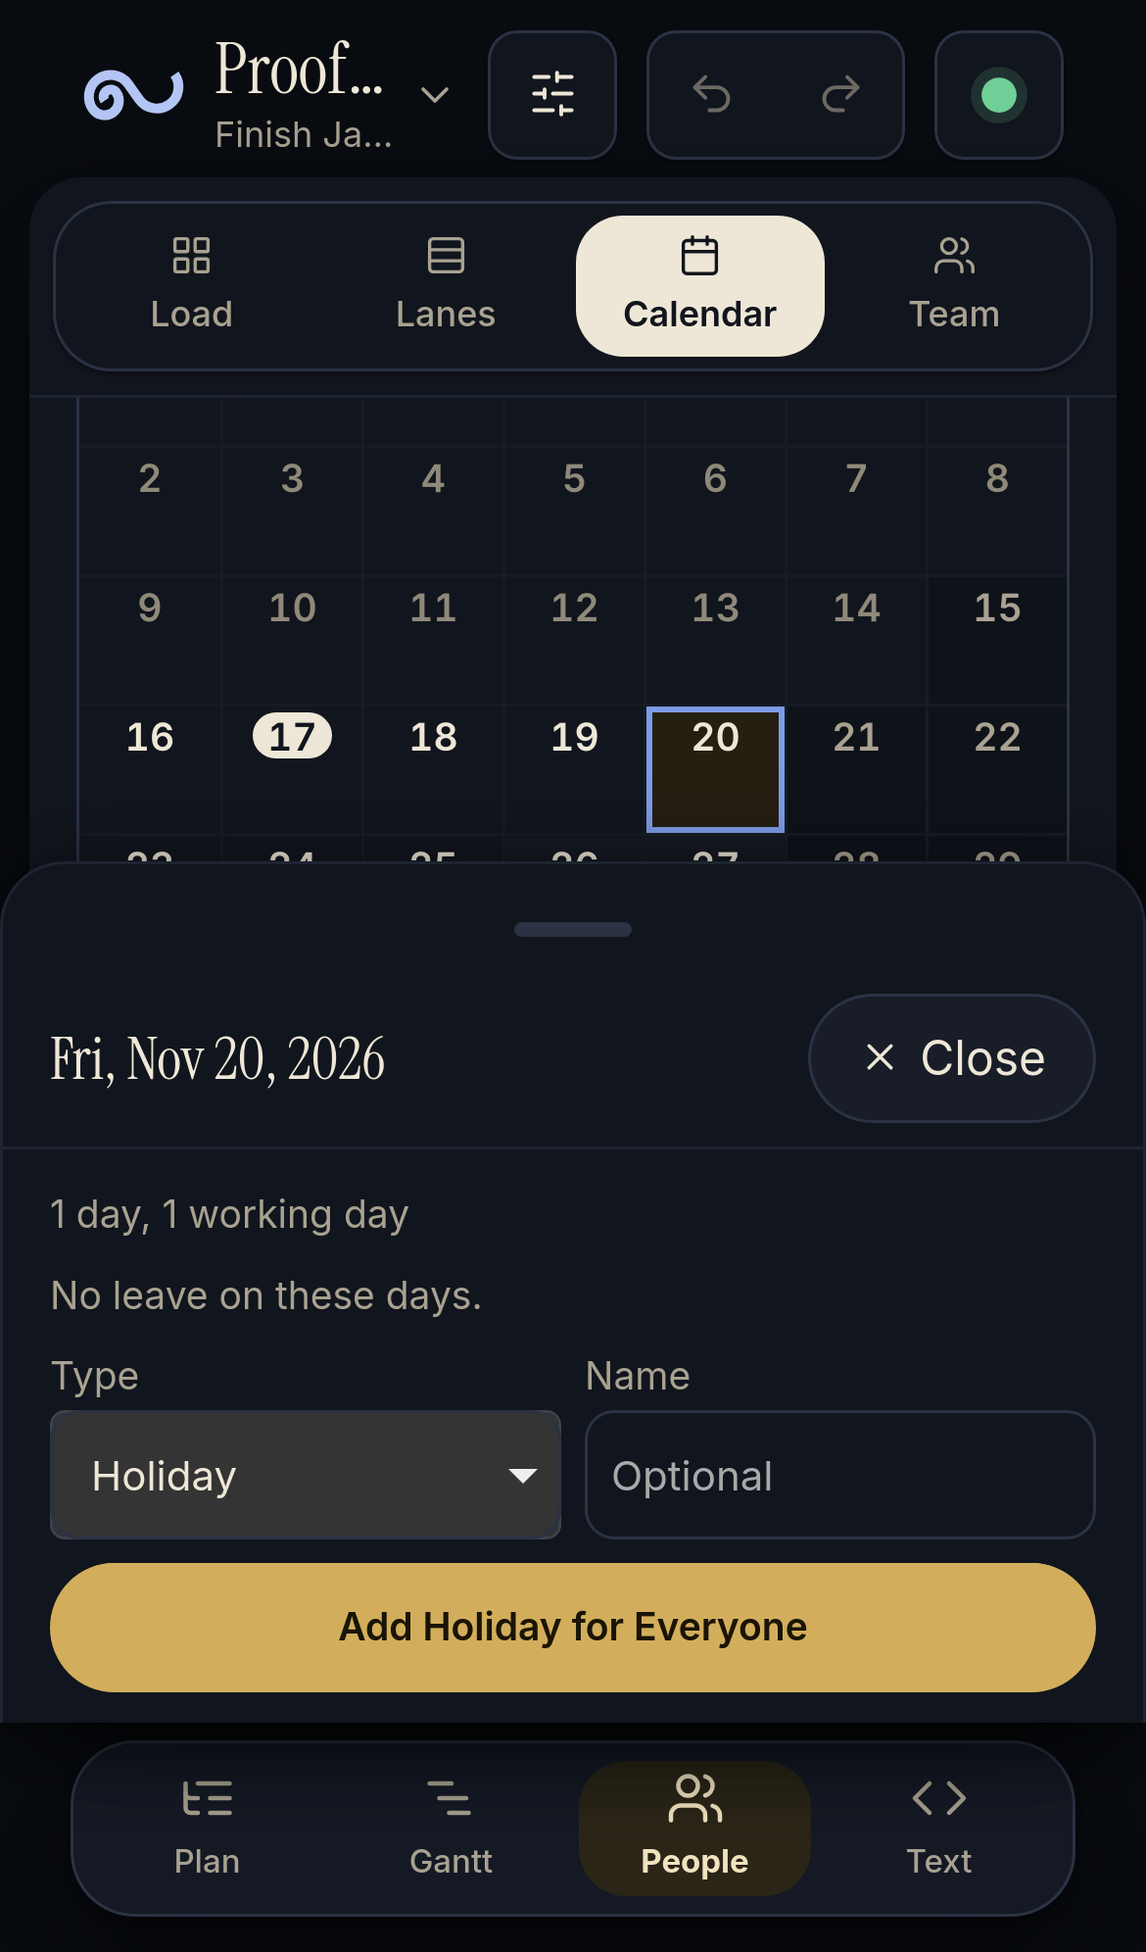
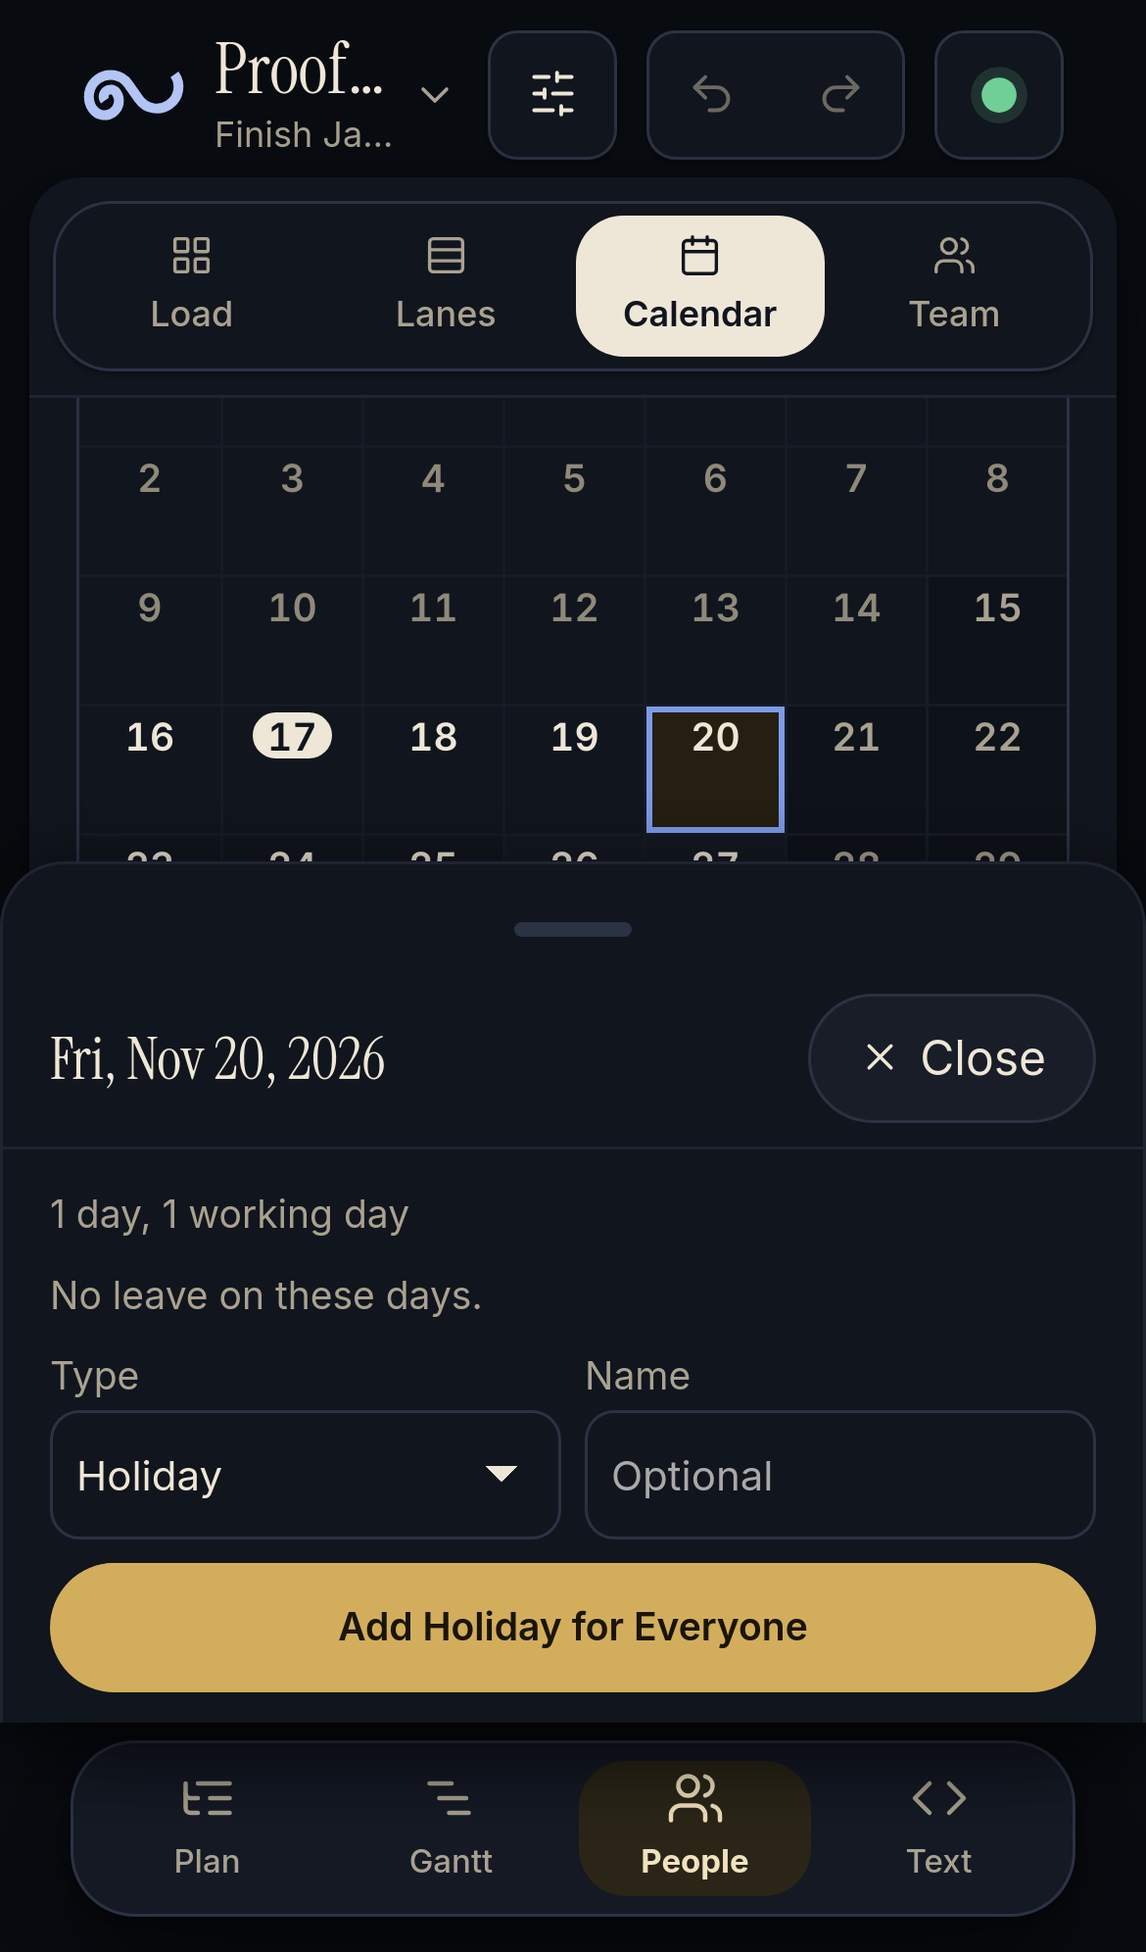
fix(calendar): review of the day-details sheet (desktop keeps its panel, the mode shows, edge scroll)
- A desktop never opens the bottom Sheet: it is for the phone layout and a tablet narrower than
  760 px (the layout kind is passed down from App through PeopleSlot and PeopleView). A desktop
  Calendar in a narrow pane (Split mode) keeps the panel over the month's foot.
- With the Sheet covering the toolbar (close it to change the mode), the mode in force shows as a
  chip in the Sheet's header, so a drag on the month above it never paints or erases with no visible
  mode. Section 22.y of phase-3.md records the decision.
- A drag's edge auto-scroll starts above the Sheet (its cover is taken off the scroller's bottom).
- DayDetails.svelte says why it is over 400 lines.
- Tests: Clear leave with the sheet open, the mode chip, and the narrow desktop pane. The
  calendar-sheet pictures are retaken with the select's arrow.

Claude-Session: https://claude.ai/code/session_018x5vMW7RJi75erXSGU1vHa

Changed region(s): [[0.0308, 0.7159, 0.4923, 0.8092]]

diff --git a/src/components/calendar/Calendar.svelte b/src/components/calendar/Calendar.svelte
@@ -21,10 +21,13 @@
 	  the arrows extends it, also past the month's edge: the next month is shown and it goes on. L opens the type picker (Enter adds that leave), Delete clears the leave
 	  on the selected days, Enter opens the details, Escape closes the picker or the details.
 	- Selection is the app's (`app.selection`, kind `days`), so a person's details can follow it.
-	- The days' details are a column beside the month when the view is 760 px wide or more. Narrower
-	  (a phone, a tablet in portrait) they are the shared bottom Sheet that the task details use:
-	  non-modal, half and full height, over the toolbar rows and the tab bar. The month keeps its
-	  place and scrolls only as far as the selected day needs to stay above the Sheet.
+	- The days' details are a column beside the month when the view is 760 px wide or more. On a
+	  phone and a tablet narrower than that they are the shared bottom Sheet that the task details
+	  use: non-modal, half and full height, over the toolbar rows and the tab bar (close it to change
+	  the mode, the person or the month; the mode in force shows in its header). The month keeps its
+	  place and scrolls only as far as the selected day needs to stay above the Sheet. A desktop never
+	  uses the Sheet: in a pane narrower than 760 px (a docked person's details beside it) the
+	  details are a panel over the month's foot.
 
 	Over 400 lines on purpose: this one component owns the month, the selection, the focus and the
 	dispatch, which only work together (as Workload.svelte does); the rules are in lib/calendar.
@@ -67,11 +70,13 @@
 		app: AppState;
 		/** A phone: the bar is above the tab bar, and there is one month. */
 		phone: boolean;
+		/** The desktop layout: the details stay a column or a panel in the view, never the bottom Sheet. */
+		desktop?: boolean;
 		state: CalendarState;
 		/** Goes to the Gantt (the details' "Show in Gantt"). */
 		showGantt: () => void;
 	}
-	let { app, phone, state: cal, showGantt }: Props = $props();
+	let { app, phone, desktop = false, state: cal, showGantt }: Props = $props();
 
 	const zones = createTimeZoneHost();
 	let root: HTMLDivElement | undefined = $state();
@@ -79,13 +84,19 @@
 	let details: DayDetails | undefined = $state();
 	let rootW = $state(0);
 	let rootH = $state(0);
-	/** A narrow view: the days' details are the shared bottom Sheet (as the task details are), else a column. */
-	const sheetMode = $derived(rootW > 0 && rootW < 760);
+	/**
+	 * A phone, or a tablet narrower than 760 px: the days' details are the shared bottom Sheet (as the
+	 * task details are). A desktop keeps them in the view: a column beside the month, and, in a pane
+	 * narrower than 760 px (a docked person's details beside it), a panel over the month's foot.
+	 */
+	const sheetMode = $derived(phone || (!desktop && rootW > 0 && rootW < 760));
 	let detent = $state<Detent>('half');
 	/** How far the Sheet reaches up from the viewport's bottom, in px (kept until it has left). */
 	let reach = $state(0);
 	/** How much of the month's box the Sheet covers, in px: the room the month keeps to scroll above it. */
 	let cover = $state(0);
+	/** The in-pane panel's height (a desktop's narrow pane), px: the room the month keeps above it. */
+	let panelH = $state(0);
 	/** What the Sheet shows while it slides away, after the selection has gone. */
 	let held = $state.raw<{ details: SelectionDetails; range: string } | null>(null);
 	let detailsOpen = $state(false);
@@ -281,6 +292,7 @@
 	const gestures = new CalendarGestures({
 		mode: () => cal.mode,
 		scroller: () => scroller,
+		covered: (): number => (sheetMode && detailed ? cover : 0),
 		valid: (d) => d >= 0 && d < grid.days.length,
 		label: (d) => {
 			const day = grid.days[d];
@@ -450,6 +462,16 @@
 		);
 	});
 
+	// A panel over the foot of a narrow desktop pane: bring the selected day above it (WCAG 2.4.11).
+	$effect(() => {
+		if (sheetMode || !detailed || panelH <= 0) return;
+		const lo = untrack(() => selected?.[0]);
+		if (lo === undefined) return;
+		void tick().then(() =>
+			root?.querySelector<HTMLElement>(`[data-day="${lo}"]`)?.scrollIntoView({ block: 'nearest' }),
+		);
+	});
+
 	function onscroll(): void {
 		gestures.scrolled();
 	}
@@ -517,6 +539,14 @@
 	/>
 {/snippet}
 
+{#snippet modeChip()}
+	{#if cal.mode !== 'select'}
+		<span class="modechip" data-testid="cal-mode-chip">
+			{C.painting(C.modes[cal.mode], typeName(cal.leaveType))}
+		</span>
+	{/if}
+{/snippet}
+
 <div
 	class="calendar"
 	class:dimmed
@@ -530,8 +560,7 @@
 	data-mode={cal.mode}
 	bind:clientHeight={rootH}
 	data-layout={fill ? 'fill' : 'month'}
-	data-sheet={sheetMode ? '' : undefined}
-	style:--sheet-h="{cover}px"
+	style:--sheet-h="{sheetMode ? cover : detailed ? panelH : 0}px"
 >
 	{#if !phone}
 		<CalendarBar
@@ -597,7 +626,7 @@
 			<div class="inset" aria-hidden="true"></div>
 		</div>
 		{#if detailed && !sheetMode}
-			<div class="sheet">
+			<div class="sheet" bind:clientHeight={panelH}>
 				{@render dayDetails(detailed, rangeText, false)}
 			</div>
 		{/if}
@@ -645,6 +674,7 @@
 		focusOnOpen={false}
 		title={shown?.range ?? ''}
 		closeLabel={C.details.close}
+		actions={modeChip}
 		{detent}
 		ondetent={(d) => (detent = d)}
 		onheight={(h) => {
@@ -760,15 +790,48 @@
 	.pickwrap :global(.picker) {
 		pointer-events: auto;
 	}
-	/* Wide: the details are a column beside the months. Narrower they are the shared bottom Sheet. */
-	.sheet {
-		flex: none;
-		inline-size: 24rem;
+	/*
+	   The details of a desktop: a column beside the months, and in a pane narrower than 760 px a panel
+	   over their foot. A phone and a tablet use the shared bottom Sheet instead (outside this box).
+	   The inset is the room to scroll the last rows above the Sheet or the panel (WCAG 2.4.11).
+	*/
+	@container calendar (min-width: 760px) {
+		.sheet {
+			flex: none;
+			inline-size: 24rem;
+		}
 	}
-	/* Room to scroll the last rows above the Sheet (WCAG 2.4.11). */
-	.calendar[data-sheet] .inset {
-		display: block;
-		block-size: var(--sheet-h);
+	@container calendar (max-width: 759px) {
+		.sheet {
+			position: absolute;
+			z-index: 12;
+			inset-inline: 0;
+			inset-block-end: 0;
+			max-block-size: 70%;
+			border-start-start-radius: var(--radius-sheet);
+			border-start-end-radius: var(--radius-sheet);
+			box-shadow: var(--shadow-raised);
+			background: var(--color-surface);
+			overflow: hidden;
+		}
+		.sheet :global(.details) {
+			border-inline-start: 0;
+			max-block-size: 100%;
+		}
+		.inset {
+			display: block;
+			block-size: var(--sheet-h);
+		}
+	}
+	/* The mode in force while the Sheet covers the toolbar: a drag on the month above it paints or erases. */
+	.modechip {
+		padding: 2px var(--space-3);
+		border-radius: var(--radius-pill);
+		background: var(--color-brass-wash);
+		color: var(--color-brass-ink);
+		font-size: var(--text-xs);
+		font-weight: 600;
+		white-space: nowrap;
 	}
 	.sr-only {
 		position: absolute;

diff --git a/tests/e2e/calendar-narrow.spec.ts b/tests/e2e/calendar-narrow.spec.ts
@@ -1,0 +1,43 @@
+// SPDX-License-Identifier: GPL-2.0-or-later
+// A desktop's Calendar in a pane narrower than 760 px (Split mode: the editor takes half of the
+// width) keeps the day details in the view, a panel over the month's foot. It never opens the
+// bottom Sheet (a phone's and a tablet's), which would cover the editor or the docked details
+// beside it (review, 2026-11-17).
+import { expect, test } from '@playwright/test';
+import { READY_TIMEOUT_MS, isTouch } from './lib/gantt-rig';
+import { showDay, tapDay } from './lib/calendar-rig';
+
+test.setTimeout(READY_TIMEOUT_MS * 2);
+
+test('desktop: in a narrow pane the day details stay in the view, not in the bottom Sheet', async ({
+	page,
+}, info) => {
+	test.skip(isTouch(info), 'the desktop layout');
+	await page.setViewportSize({ width: 1024, height: 768 });
+	await page.goto('/app?sample=poc-sample&mode=split&view=calendar&hooks=edits');
+	await expect(page.getByTestId('cal-day').first()).toBeVisible({ timeout: 60_000 });
+	const calendar = page.getByTestId('calendar');
+	const width = (await calendar.boundingBox())?.width ?? 0;
+	console.log('CALW', width);
+	expect(width, 'the Calendar is in a pane narrower than 760 px').toBeLessThan(760);
+	const d = await showDay(page, '2026-11-20');
+	await tapDay(page, info, d);
+	const details = page.getByTestId('cal-details');
+	await expect(details).toBeVisible();
+	// No Sheet: no open dialog, and the details are inside the Calendar's own box.
+	await expect(page.locator('dialog[open]')).toHaveCount(0);
+	const inside = await page.evaluate(() => {
+		const c = document.querySelector('[data-testid="calendar"]')?.getBoundingClientRect();
+		const e = document.querySelector('[data-testid="cal-details"]')?.getBoundingClientRect();
+		if (!c || !e) return false;
+		return e.left >= c.left - 1 && e.right <= c.right + 1 && e.bottom <= c.bottom + 1;
+	});
+	expect(inside, 'the details are inside the Calendar').toBe(true);
+	// The selected day is above the panel, and Escape closes it.
+	const box = await d.boundingBox();
+	const panel = await details.boundingBox();
+	if (!box || !panel) throw new Error('no box');
+	expect(box.y + box.height).toBeLessThanOrEqual(panel.y + 1);
+	await page.keyboard.press('Escape');
+	await expect(details).toBeHidden();
+});

diff --git a/tests/e2e/calendar-sheet.spec.ts b/tests/e2e/calendar-sheet.spec.ts
@@ -15,7 +15,7 @@
 import path from 'node:path';
 import { expect, test, type Page, type TestInfo } from '@playwright/test';
 import { REPO } from '../golden/corpus';
-import { day, openCalendar, openDetails, showDay, tapDay } from './lib/calendar-rig';
+import { day, openCalendar, openDetails, setMode, showDay, tapDay } from './lib/calendar-rig';
 import { READY_TIMEOUT_MS, isTouch } from './lib/gantt-rig';
 
 test.setTimeout(READY_TIMEOUT_MS * 2);
@@ -150,6 +150,31 @@ test('adding leave from the sheet shows its card, and only the sheet scrolls', a
 	expect(areas, 'one scroll area in the sheet').toBe(1);
 	await sheet.getByTestId('cal-clear').scrollIntoViewIfNeeded();
 	await expect(sheet.getByTestId('cal-clear')).toBeInViewport();
+	// "Clear leave on these days" works with the sheet open: the card goes, the sheet stays.
+	await sheet.getByTestId('cal-clear').tap();
+	await expect(sheet.getByTestId('cal-leave')).toHaveCount(0, { timeout: 30_000 });
+	await expect(sheet).toBeVisible();
+});
+
+test('the mode in force shows in the sheet header while the toolbar is covered', async ({
+	page,
+}, info) => {
+	await openCalendar(page, info);
+	// Paint is chosen on the toolbar (the sheet covers it, so before the sheet opens).
+	await setMode(page, 'paint');
+	await openDetails(page, info, '2026-11-20');
+	await settle(page);
+	const chip = page.locator(SHEET).getByTestId('cal-mode-chip');
+	await expect(chip).toBeVisible();
+	await expect(chip).toContainText('Paint');
+	await expect(chip).toContainText('Holiday');
+	// Back to Select (close the sheet to reach the toolbar): no chip.
+	await page.locator(SHEET).getByRole('button', { name: 'Close' }).tap();
+	await expect(page.locator(SHEET)).toHaveCount(0);
+	await setMode(page, 'select');
+	await openDetails(page, info, '2026-11-20');
+	await settle(page);
+	await expect(page.locator(SHEET).getByTestId('cal-mode-chip')).toHaveCount(0);
 });
 
 test('the month scrolls only as far as it must, and stays put when the day is clear', async ({

diff --git a/src/components/people/PeopleSlot.svelte b/src/components/people/PeopleSlot.svelte
@@ -28,6 +28,8 @@
 		app: AppState;
 		content: PeopleContent;
 		phone: boolean;
+		/** The desktop layout: a view docks its panel beside it. */
+		desktop: boolean;
 		/** Puts a view's toolbar chips in this slot's bar (a desktop and a tablet); null takes them out. */
 		setBar: (bar: Snippet | null) => void;
 		/** Goes to the Gantt (a view's "Show in Gantt"). */
@@ -53,10 +55,12 @@
 		people: PeopleViewState;
 		/** The phone's People tab: it has the segments; elsewhere a toolbar's switcher chooses the view. */
 		phone: boolean;
+		/** The desktop layout (1024 px and wider): a view that docks a panel beside it (the Calendar's details). */
+		desktop?: boolean;
 		/** The view switcher, for the bar of a desktop and a tablet. */
 		lead?: Snippet | undefined;
 	}
-	let { app, people, phone, lead }: Props = $props();
+	let { app, people, phone, desktop = false, lead }: Props = $props();
 
 	const S = strings.people;
 	const ICON: Record<PeopleSegment, IconName> = {
@@ -136,7 +140,7 @@
 		aria-labelledby={phone ? `segment-tab-${people.segment}` : undefined}
 	>
 		{#if Chunk}
-			<Chunk {app} {content} {phone} setBar={(b) => (barExtra = b)} {showGantt} />
+			<Chunk {app} {content} {phone} {desktop} setBar={(b) => (barExtra = b)} {showGantt} />
 		{:else if failed > 0}
 			<div class="message" role="alert" data-testid="people-failed">
 				<p>{S.loadFailed}</p>

diff --git a/src/components/people/PeopleView.svelte b/src/components/people/PeopleView.svelte
@@ -31,10 +31,12 @@
 		content: PeopleContent;
 		/** The phone's People tab: the heatmap's toolbar is a row of the view, else the People bar's. */
 		phone: boolean;
+		/** The desktop layout (1024 px and wider). */
+		desktop?: boolean;
 		setBar: (bar: Snippet | null) => void;
 		showGantt: () => void;
 	}
-	let { app, content, phone, setBar, showGantt }: Props = $props();
+	let { app, content, phone, desktop = false, setBar, showGantt }: Props = $props();
 
 	const S = strings.people;
 	const shown = $derived(
@@ -176,7 +178,7 @@
 		<NoPeople {app} ondone={() => (focusContent = true)} />
 	{:else if content === 'calendar' && calendarView.module && calendar}
 		{@const Calendar = calendarView.module.default}
-		<Calendar {app} {phone} state={calendar} {showGantt} />
+		<Calendar {app} {phone} {desktop} state={calendar} {showGantt} />
 	{:else if content === 'team' && lanes.module}
 		{@const Team = lanes.module.default}
 		<Team {app} {phone} team />

diff --git a/src/components/calendar/calendar-gestures.svelte.ts b/src/components/calendar/calendar-gestures.svelte.ts
@@ -41,6 +41,8 @@ import type { CalendarMode } from './calendar-state.svelte';
 export interface CalendarHost {
 	mode(): CalendarMode;
 	scroller(): HTMLElement | undefined;
+	/** How much of the scroller's foot a bottom sheet covers, in px (0 when there is none): a drag's edge scroll starts above it. */
+	covered?(): number;
 	/** Whether a day (an index) can be selected: the grid has it and it is inside the plan. */
 	valid(day: number): boolean;
 	/** A tap or click on a day; `shift` extends the selection. */
@@ -330,7 +332,7 @@ export class CalendarGestures {
 		const list = this.#h.scroller();
 		if (list && list.scrollHeight > list.clientHeight) {
 			const r = list.getBoundingClientRect();
-			this.#box = { top: r.top, bottom: r.bottom };
+			this.#box = { top: r.top, bottom: Math.max(r.top, r.bottom - (this.#h.covered?.() ?? 0)) };
 		} else this.#box = null;
 		if (this.#raf !== 0) return;
 		this.#lastFrame = performance.now();

diff --git a/src/components/calendar/DayDetails.svelte b/src/components/calendar/DayDetails.svelte
@@ -15,6 +15,10 @@
 	Sheet's content area is the one thing that scrolls. With no leave on the days the add form comes
 	first, so that it is in reach at half height without scrolling. Escape or Close returns the focus
 	to the day it came from (the Calendar's job).
+
+	Over 400 lines on purpose: the column and the Sheet's content are one tree of sections (the leave
+	lists, the milestones, the add form and the clear button) with two frames around it, and the
+	styles of every section are one cascade; splitting them would copy the sections.
 -->
 <script lang="ts">
 	import type { SelectionDetails } from '../../lib/calendar/details';

diff --git a/src/components/App.svelte b/src/components/App.svelte
@@ -480,7 +480,13 @@
 						{/if}
 						{#if !phone && peopleSeen}
 							<div class="view-host" hidden={!showPeople}>
-								<PeopleSlot {app} {people} phone={false} lead={peopleSwitcher} />
+								<PeopleSlot
+									{app}
+									{people}
+									phone={false}
+									desktop={kind === 'desktop'}
+									lead={peopleSwitcher}
+								/>
 							</div>
 						{/if}
 					</div>

diff --git a/docs/phases/phase-3.md b/docs/phases/phase-3.md
@@ -911,6 +911,16 @@ The user's decision: "The calendar view on desktop should be full screen", meani
 7. **A drag that leaves the grid at the top or bottom edge stops**: the run keeps the last day it reached, with no month change after a hover (too easy to trigger by accident). A stroke across months is Shift and the arrows, Shift and a click, or two strokes. The edge auto-scroll stays for the months that scroll (a short view, a phone with the details open); in the month that fills the view it has nothing to scroll.
 8. **The title.** The toolbar's title stays the visible one; the month's own heading is kept for the grid's accessible name only.
 
+### 22.y, amended 2026-11-18 (user): a phone's day details are the shared bottom Sheet
+
+On a real iPhone the day details jumped in (the month scrolled away, no slide showed), sat in about 170 px between the month and the toolbar rows, and scrolled inside themselves. They are now the Sheet that the task details use (`Sheet.svelte`; commit 022b625e):
+
+1. **Where it applies.** On a phone (the phone layout), and on a tablet whose Calendar is narrower than 760 px: a non-modal bottom Sheet with a grabber, half and full height (the half height is the same as the task details'), the Sheet's motion tokens (200 ms in, 180 out; transform only) and its focus handling (Escape and Close slide it away and the focus returns to the day). A desktop never uses it: from 760 px the details are a column beside the month, and in a pane narrower than that (Split mode) a panel over the month's foot (`calendar-narrow.spec.ts`).
+2. **The month keeps its place.** It scrolls only as far as the selected day needs to stay above the Sheet (smooth, instant with reduced motion); a day already clear of the Sheet does not move it, and a month nearly all under the Sheet (full height) is left where it is. A drag's edge scroll starts above the Sheet.
+3. **The Sheet covers the toolbar rows and the status line** (Select, Paint and Erase, the person and the type, the months, the "N days selected" line): the Sheet's title is the days. **To change the mode, the person or the month, close the Sheet** (the coordinator's decision, 2026-11-18, for the user to confirm). So that a drag on the month above it in Paint or Erase mode never applies with no visible mode, the mode in force shows as a chip in the Sheet's header ("Paint: Holiday"). "Clear leave on these days" and "Add leave" are in the Sheet.
+4. **At half height the add form comes first** when there is no leave to edit (and "Clear leave" is left out then), so that it is in reach without scrolling.
+5. The bespoke `slideUp` transition and `lib/ui/slide-up.ts` are gone.
+
 **Left to T12 and T21 (items, not T16's):**
 - Painting a leave over days with no working time (a weekend, a stretch the person is off) writes a leave that changes nothing in the schedule. `planLeavePaint` has no `no-working-day` refusal on the paint path; only `leave-covered`, `at-limit` and the others. 7.1 and 6.6 mention none for W3. The Calendar paints it as asked and shows the day with the leave; decide whether the planner should refuse or warn, and then pin it in `calendar.spec.ts`.
 - T21: `calendar.spec.ts` pins the exact text of every W3 to W5 outcome (paint, merge, trim, split, remove, type change, name and date edits) with Undo restoring the bytes. The "shared declaration" confirmation is covered by `run.test.ts` only: no bundled sample reads a declaration in more than one place.
